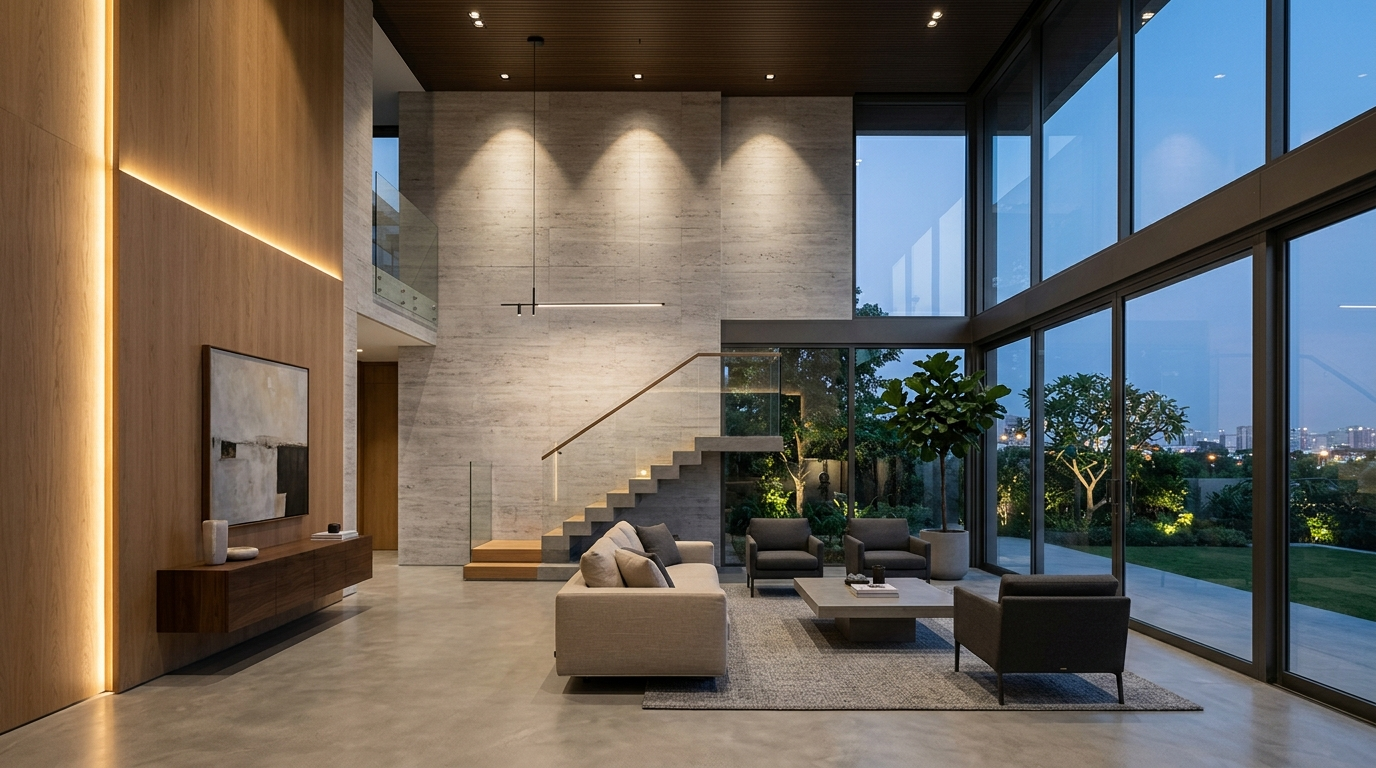
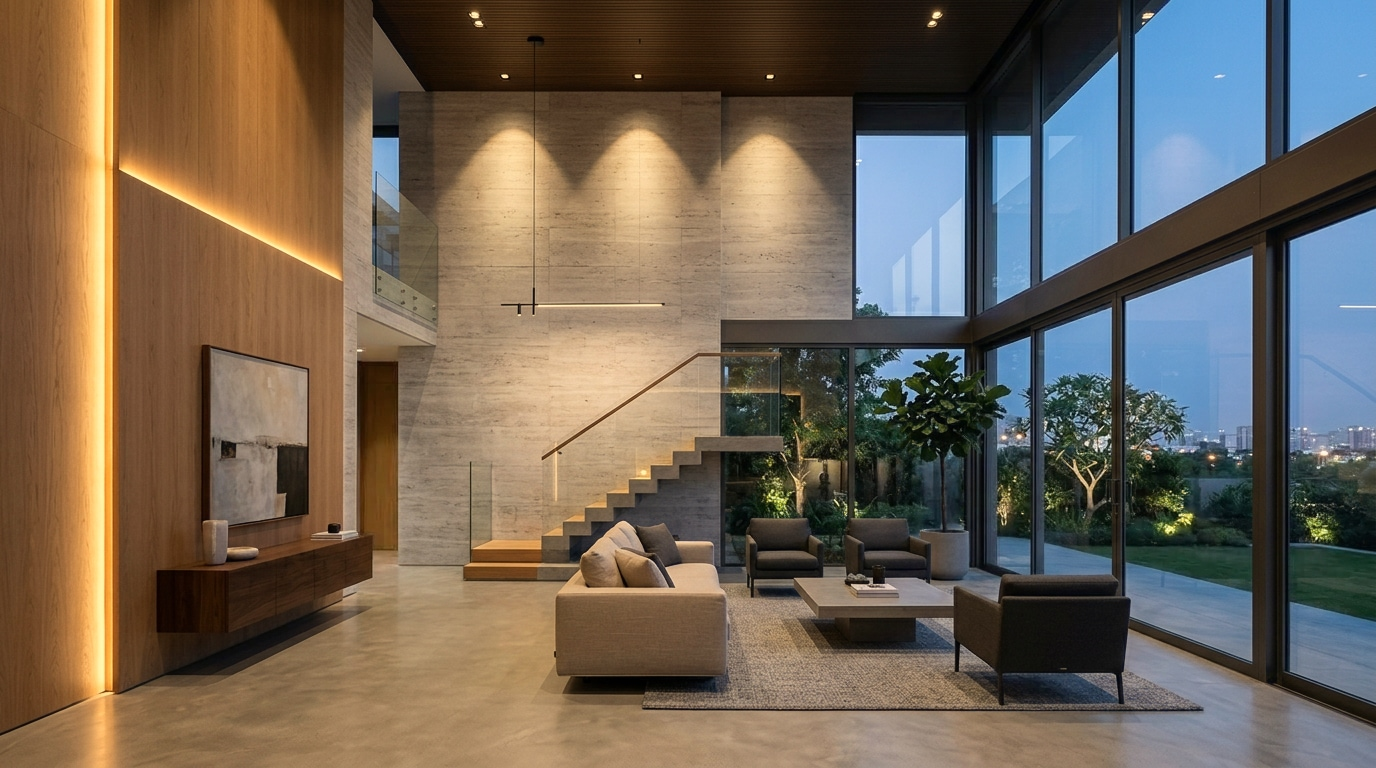
fix(simulator): calibrate realistic color temperature separation between 3000K, 4000K, and 6000K

diff --git a/src/pages/HomeCleanWhitePreview.tsx b/src/pages/HomeCleanWhitePreview.tsx
@@ -334,10 +334,10 @@ export default function HomeCleanWhitePreview() {
   // Preload all 4 photorealistic variations (all-off, 3000K, 4000K, 6000K)
   useEffect(() => {
     const simPhotos = [
-      '/images/simulator/room-all-off.jpg',
-      '/images/simulator/room-3000k.jpg',
-      '/images/simulator/room-4000k.jpg',
-      '/images/simulator/room-6000k.jpg'
+      '/images/simulator/room-all-off.jpg?v=2',
+      '/images/simulator/room-3000k.jpg?v=2',
+      '/images/simulator/room-4000k.jpg?v=2',
+      '/images/simulator/room-6000k.jpg?v=2'
     ]
     simPhotos.forEach((src) => {
       const img = new Image()
@@ -955,7 +955,7 @@ export default function HomeCleanWhitePreview() {
             
             {/* Layer 0 (Base): Natural Dusk Architectural Scene - All Artificial Lights OFF */}
             <img
-              src="/images/simulator/room-all-off.jpg"
+              src="/images/simulator/room-all-off.jpg?v=2"
               alt="Natural Dusk Architectural Scene - Artificial Lights OFF"
               className="absolute inset-0 w-full h-full object-cover pointer-events-none select-none"
               style={{ zIndex: 1 }}
@@ -974,7 +974,7 @@ export default function HomeCleanWhitePreview() {
             >
               {/* 3000K Warm White Base Render */}
               <img
-                src="/images/simulator/room-3000k.jpg"
+                src="/images/simulator/room-3000k.jpg?v=2"
                 alt="Architectural Room Lighting 3000K Warm White"
                 className="absolute inset-0 w-full h-full object-cover pointer-events-none select-none"
                 style={{ zIndex: 1, willChange: 'opacity' }}
@@ -983,7 +983,7 @@ export default function HomeCleanWhitePreview() {
 
               {/* 4000K Neutral White Middle Render */}
               <img
-                src="/images/simulator/room-4000k.jpg"
+                src="/images/simulator/room-4000k.jpg?v=2"
                 alt="Architectural Room Lighting 4000K Neutral White"
                 className="absolute inset-0 w-full h-full object-cover pointer-events-none select-none"
                 style={{
@@ -997,7 +997,7 @@ export default function HomeCleanWhitePreview() {
 
               {/* 6000K Cool White Top Render */}
               <img
-                src="/images/simulator/room-6000k.jpg"
+                src="/images/simulator/room-6000k.jpg?v=2"
                 alt="Architectural Room Lighting 6000K Cool White"
                 className="absolute inset-0 w-full h-full object-cover pointer-events-none select-none"
                 style={{
